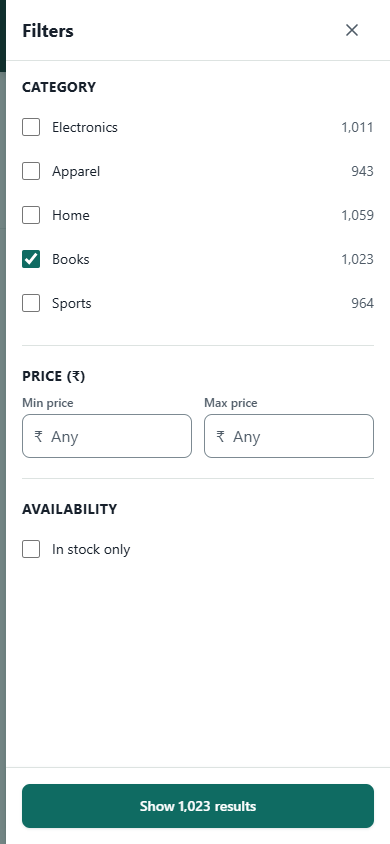
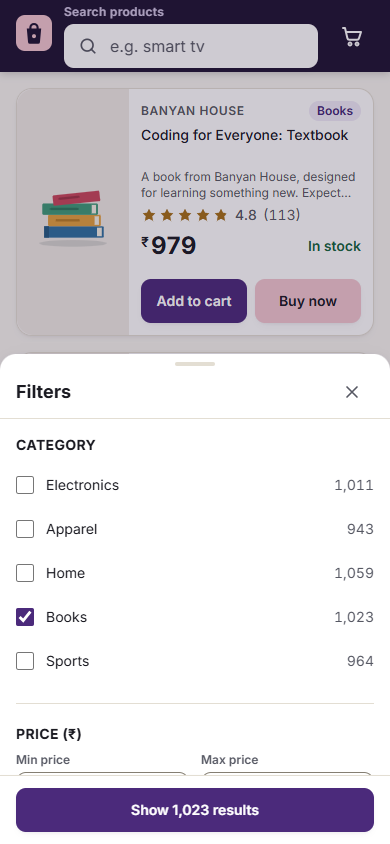
Refresh README screenshots for the AllinONE look and remove the build plan

diff --git a/eslint.config.js b/eslint.config.js
@@ -5,7 +5,7 @@ import globals from 'globals';
 import tseslint from 'typescript-eslint';
 
 /**
- * Import boundaries that encode the dependency direction from PLAN.md section 3:
+ * Import boundaries that encode the dependency direction between the source folders:
  * domain <- data, search, smart-search, url <- hooks <- features <- app.
  */
 const REACT = ['react', 'react-dom', 'react-dom/*', 'react-router', '@tanstack/*'];

diff --git a/README.md b/README.md
@@ -226,9 +226,6 @@ dependencies), so nothing is fetched from a CDN and the system stack shows until
 The Latin files are about 48 KB and 38 KB; other scripts load only if a page uses them. No
 third-party brand assets, icons or images.
 
-The screenshots in `docs/screenshots/` were taken before this rebrand and still show the
-earlier name and colours; regenerate them with `npm run screenshots`.
-
 | Area | What it looks like |
 |---|---|
 | Header | Sticky dark bar: wordmark (bag mark only on phones), visible "Search products" label, search field with icon and Clear button, cart link with count badge. One compact row on phones (72 px). |
